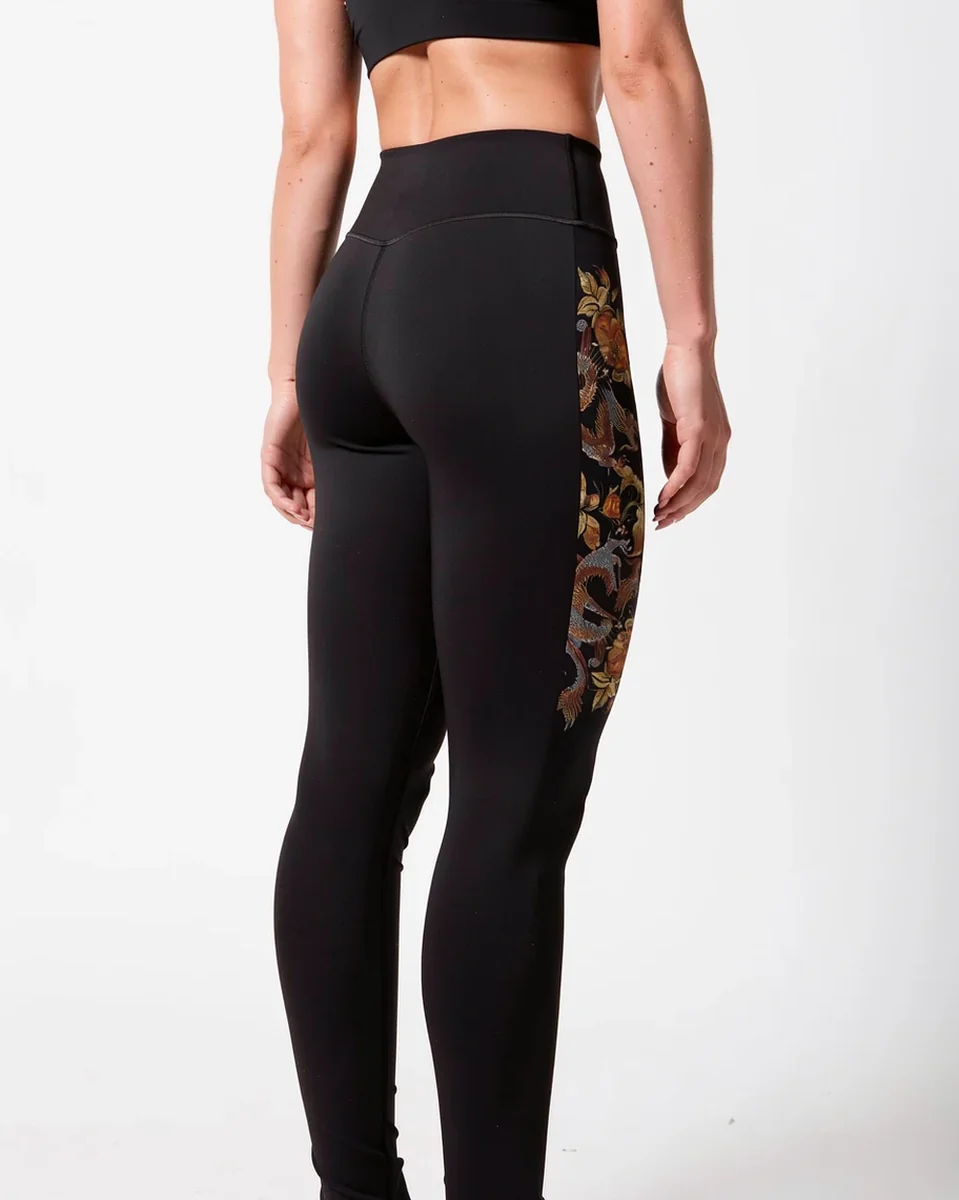
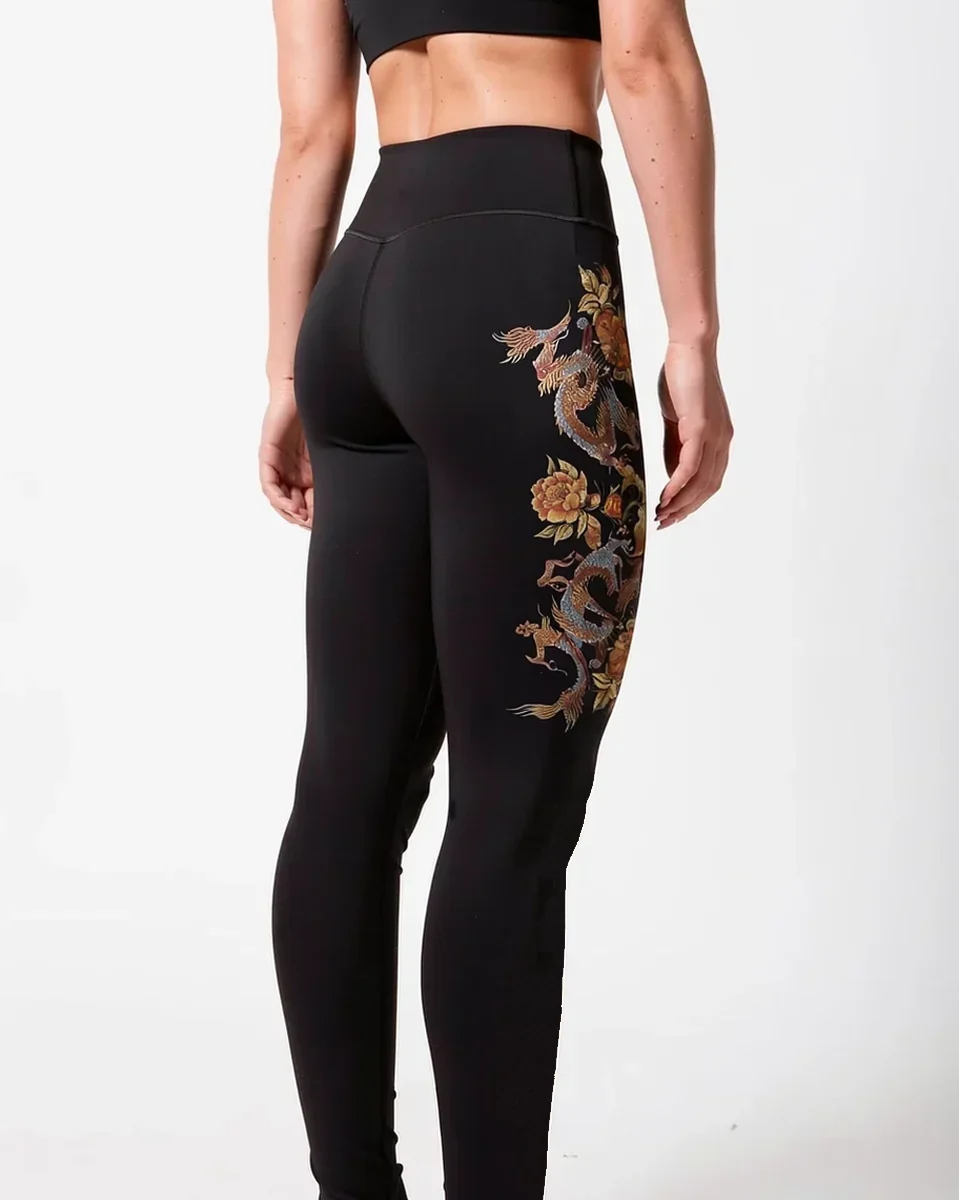
Apply Abir's feedback round: image corrections and hello@ contact
Images
- Starflower bra back: floral band rebuilt so the print sits centred in
  the band with plain black above and below it, every bloom complete
- Starflower bra front and back: arm tattoos removed
- Rosalia editorial: tattoo on the inner arm removed
- Dragon Rose legging (back): print was cut in half down the leg and ran
  past the knee; print restored and now stops above the knee, matching
  the card and the other Dragon Rose shots
- Starflower legging: stray vertical line through the print removed
- Refined Jacket editorial: logo raised
- Refined Jacket close-up: logo moved clear of the zip

Content
- Contact address back to hello@abiraactive.com across every page,
  the contact form fallback and the product pages

Claude-Session: https://claude.ai/code/session_01H2N2bsu5qw9aqWFwFaRsDy

diff --git a/index.html b/index.html
@@ -220,7 +220,7 @@
         <img class="cta__mark ar" src="assets/cta-mark.png" alt="ABIRA mark">
 
         <div class="cta__contact ar" style="--ar-delay:.15s">
-          <a class="cta__line" href="mailto:info@abiraactive.com">info@abiraactive.com</a>
+          <a class="cta__line" href="mailto:hello@abiraactive.com">hello@abiraactive.com</a>
           <a class="cta__line" href="tel:00962796963100">00962796963100</a>
           <p class="find-us-label">Find us</p>
           <a class="btn btn--solid" href="locations.html">See locations <span class="btn__icon" aria-hidden="true"></span></a>
@@ -264,7 +264,7 @@
     <div class="footer__col">
       <h3>Contact</h3>
       <div class="footer__box footer__box--text">
-        <a href="mailto:info@abiraactive.com">info@abiraactive.com</a>
+        <a href="mailto:hello@abiraactive.com">hello@abiraactive.com</a>
         <a href="tel:00962796963100">00962796963100</a>
         <p>Urb La Viña, Tower A1, floor 3, office 3-3<br>Valencia, Carabobo, Venezuela</p>
       </div>

diff --git a/js/main.js b/js/main.js
@@ -372,7 +372,7 @@
           show('Thanks, ' + firstName + '. Your message is with us. We reply within two business days.');
           clear();
         }).catch(() => {
-          show('Sorry, that did not go through. Please email us at info@abiraactive.com and we will pick it up from there.');
+          show('Sorry, that did not go through. Please email us at hello@abiraactive.com and we will pick it up from there.');
         }).finally(() => { btn.disabled = false; });
         return;
       }
@@ -382,7 +382,7 @@
       const body = 'Name: ' + name.value.trim() +
         '\nEmail: ' + email.value.trim() +
         '\n\n' + message.value.trim();
-      window.location.href = 'mailto:info@abiraactive.com' +
+      window.location.href = 'mailto:hello@abiraactive.com' +
         '?subject=' + encodeURIComponent(subject.value.trim()) +
         '&body=' + encodeURIComponent(body);
       show('Thanks, ' + firstName + '. Your email app is opening with the message ready — press send and it reaches us.');

diff --git a/privacy.html b/privacy.html
@@ -67,7 +67,7 @@
       <h2>Who we are</h2>
       <p>ABIRA designs and sells activewear. Our office is at Urb La Vi&ntilde;a, Tower A1,
          floor 3, office 3-3, Valencia, Carabobo, Venezuela. For anything in this policy,
-         write to <a href="mailto:info@abiraactive.com">info@abiraactive.com</a>.</p>
+         write to <a href="mailto:hello@abiraactive.com">hello@abiraactive.com</a>.</p>
 
       <h2>What this site collects</h2>
       <p>Only what you type into the contact form: your name, your email address, the
@@ -135,7 +135,7 @@
     <div class="footer__col">
       <h3>Contact</h3>
       <div class="footer__box footer__box--text">
-        <a href="mailto:info@abiraactive.com">info@abiraactive.com</a>
+        <a href="mailto:hello@abiraactive.com">hello@abiraactive.com</a>
         <a href="tel:00962796963100">00962796963100</a>
         <p>Urb La Viña, Tower A1, floor 3, office 3-3<br>Valencia, Carabobo, Venezuela</p>
       </div>

diff --git a/contact.html b/contact.html
@@ -68,7 +68,7 @@
            city, we’ll reply within two business days.</p>
 
         <div class="contact__channels">
-          <a href="mailto:info@abiraactive.com">info@abiraactive.com</a>
+          <a href="mailto:hello@abiraactive.com">hello@abiraactive.com</a>
           <a href="tel:00962796963100">00962796963100</a>
         </div>
 
@@ -147,7 +147,7 @@
     <div class="footer__col">
       <h3>Contact</h3>
       <div class="footer__box footer__box--text">
-        <a href="mailto:info@abiraactive.com">info@abiraactive.com</a>
+        <a href="mailto:hello@abiraactive.com">hello@abiraactive.com</a>
         <a href="tel:00962796963100">00962796963100</a>
         <p>Urb La Viña, Tower A1, floor 3, office 3-3<br>Valencia, Carabobo, Venezuela</p>
       </div>

diff --git a/about.html b/about.html
@@ -121,7 +121,6 @@
            same root: the belief that strength and beauty grow together. These pieces are
            made to move with you through training and everyday life, carrying a little of
            the garden wherever you go.</p>
-        <p class="signoff ar">ABIRA. Wear your bloom.</p>
       </div>
     </section>
 
@@ -194,7 +193,7 @@
     <div class="footer__col">
       <h3>Contact</h3>
       <div class="footer__box footer__box--text">
-        <a href="mailto:info@abiraactive.com">info@abiraactive.com</a>
+        <a href="mailto:hello@abiraactive.com">hello@abiraactive.com</a>
         <a href="tel:00962796963100">00962796963100</a>
         <p>Urb La Viña, Tower A1, floor 3, office 3-3<br>Valencia, Carabobo, Venezuela</p>
       </div>

diff --git a/terms.html b/terms.html
@@ -97,7 +97,7 @@
       <p>These terms are governed by the law of Venezuela, where ABIRA is based.</p>
 
       <h2>Questions</h2>
-      <p>Write to <a href="mailto:info@abiraactive.com">info@abiraactive.com</a>.</p>
+      <p>Write to <a href="mailto:hello@abiraactive.com">hello@abiraactive.com</a>.</p>
     </section>
   </main>
 
@@ -133,7 +133,7 @@
     <div class="footer__col">
       <h3>Contact</h3>
       <div class="footer__box footer__box--text">
-        <a href="mailto:info@abiraactive.com">info@abiraactive.com</a>
+        <a href="mailto:hello@abiraactive.com">hello@abiraactive.com</a>
         <a href="tel:00962796963100">00962796963100</a>
         <p>Urb La Viña, Tower A1, floor 3, office 3-3<br>Valencia, Carabobo, Venezuela</p>
       </div>

diff --git a/404.html b/404.html
@@ -100,7 +100,7 @@
     <div class="footer__col">
       <h3>Contact</h3>
       <div class="footer__box footer__box--text">
-        <a href="mailto:info@abiraactive.com">info@abiraactive.com</a>
+        <a href="mailto:hello@abiraactive.com">hello@abiraactive.com</a>
         <a href="tel:00962796963100">00962796963100</a>
         <p>Urb La Viña, Tower A1, floor 3, office 3-3<br>Valencia, Carabobo, Venezuela</p>
       </div>

diff --git a/locations.html b/locations.html
@@ -171,7 +171,7 @@
     <div class="footer__col">
       <h3>Contact</h3>
       <div class="footer__box footer__box--text">
-        <a href="mailto:info@abiraactive.com">info@abiraactive.com</a>
+        <a href="mailto:hello@abiraactive.com">hello@abiraactive.com</a>
         <a href="tel:00962796963100">00962796963100</a>
         <p>Urb La Viña, Tower A1, floor 3, office 3-3<br>Valencia, Carabobo, Venezuela</p>
       </div>

diff --git a/product.html b/product.html
@@ -124,7 +124,7 @@
     <div class="footer__col">
       <h3>Contact</h3>
       <div class="footer__box footer__box--text">
-        <a href="mailto:info@abiraactive.com">info@abiraactive.com</a>
+        <a href="mailto:hello@abiraactive.com">hello@abiraactive.com</a>
         <a href="tel:00962796963100">00962796963100</a>
         <p>Urb La Viña, Tower A1, floor 3, office 3-3<br>Valencia, Carabobo, Venezuela</p>
       </div>

diff --git a/products.html b/products.html
@@ -112,7 +112,7 @@
     <div class="footer__col">
       <h3>Contact</h3>
       <div class="footer__box footer__box--text">
-        <a href="mailto:info@abiraactive.com">info@abiraactive.com</a>
+        <a href="mailto:hello@abiraactive.com">hello@abiraactive.com</a>
         <a href="tel:00962796963100">00962796963100</a>
         <p>Urb La Viña, Tower A1, floor 3, office 3-3<br>Valencia, Carabobo, Venezuela</p>
       </div>

diff --git a/products/active-shoulder-bag.html b/products/active-shoulder-bag.html
@@ -125,7 +125,7 @@
     <div class="footer__col">
       <h3>Contact</h3>
       <div class="footer__box footer__box--text">
-        <a href="mailto:info@abiraactive.com">info@abiraactive.com</a>
+        <a href="mailto:hello@abiraactive.com">hello@abiraactive.com</a>
         <a href="tel:00962796963100">00962796963100</a>
         <p>Urb La Viña, Tower A1, floor 3, office 3-3<br>Valencia, Carabobo, Venezuela</p>
       </div>

diff --git a/products/bra-bluebird.html b/products/bra-bluebird.html
@@ -125,7 +125,7 @@
     <div class="footer__col">
       <h3>Contact</h3>
       <div class="footer__box footer__box--text">
-        <a href="mailto:info@abiraactive.com">info@abiraactive.com</a>
+        <a href="mailto:hello@abiraactive.com">hello@abiraactive.com</a>
         <a href="tel:00962796963100">00962796963100</a>
         <p>Urb La Viña, Tower A1, floor 3, office 3-3<br>Valencia, Carabobo, Venezuela</p>
       </div>
